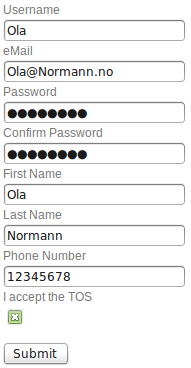
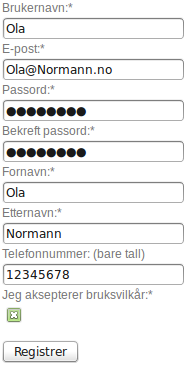
CSS, bugs

Changed region(s): [[0.0, 0.0, 0.984, 0.8992], [0.0, 0.9292, 0.4255, 1.0]]

diff --git a/app/templates/signup.html b/app/templates/signup.html
@@ -3,12 +3,12 @@
 {% from "_formhelpers.html" import render_field %}
 <br>
 <div class="content"><div class="inner-box">
-<div class="inner-box3" style="float: left;">
+<div class="inner-box3" style="float: left; margin-right: 100px">
 <h1>Registrering</h1><br>
 <form method=post action="/signup">
   <dl class="list2">
     <li><b>Påkrevde felt er markert med *</b></li>
-    <li>{{ render_field(form.username) }}</li>
+    <li>{{ render_field(form.username) }} </li>
     <li>{{ render_field(form.email) }}</li>
     <li>{{ render_field(form.password) }}</li>
     <li>{{ render_field(form.confirm) }}</li>
@@ -21,8 +21,8 @@
     </form>
     </div>
     <div class="inner-box3"><br>
-    <p>Eksempel:<br>
-    <img src="../static/images/example.png" alt="Example form"></p>
+    <h3>Eksempel:</h3>
+    <img src="../static/images/example.png" alt="Example form">
     </div>
 </div></div>
 {% endblock %}

diff --git a/app/templates/base.html b/app/templates/base.html
@@ -13,7 +13,7 @@
     <div class="div-nav">
         <nav>
             <ul class="sf-menu">
-                <li><a href="{{ url_for('index') }}" class="menu-link">Home</a></li>
+                <li><a href="{{ url_for('index') }}" class="menu-link">Hjem</a></li>
                 {% if 'admin' in session %}
                 <li> <a href="{{ url_for('administrate') }}" class="menu-link">Administrasjon</a></li>
 
@@ -31,7 +31,7 @@
             {% if 'logged_in' in session %}
             <li> <a href="{{ url_for('logout') }}" class="menu-link">Logg ut</a></li>
             {% else %}
-                <li> <a href="{{ url_for('signup') }}" class="menu-link">Signup</a></li>
+                <li> <a href="{{ url_for('signup') }}" class="menu-link">Registrer</a></li>
             {% endif %}
             </ul>
         </nav>
